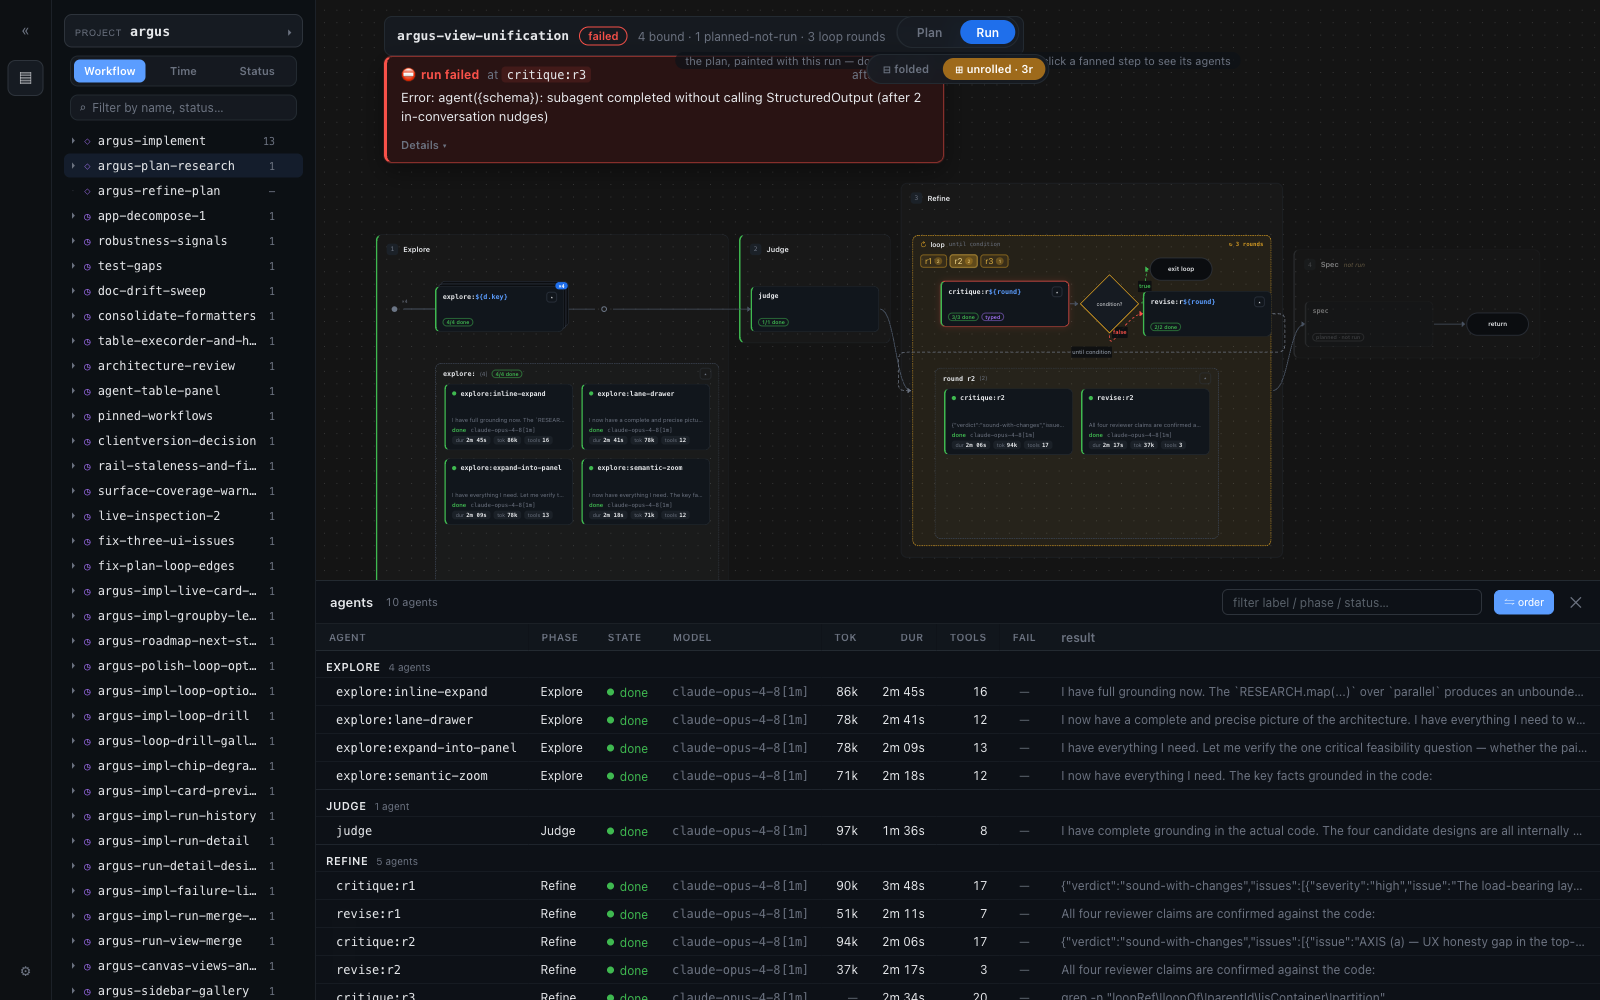
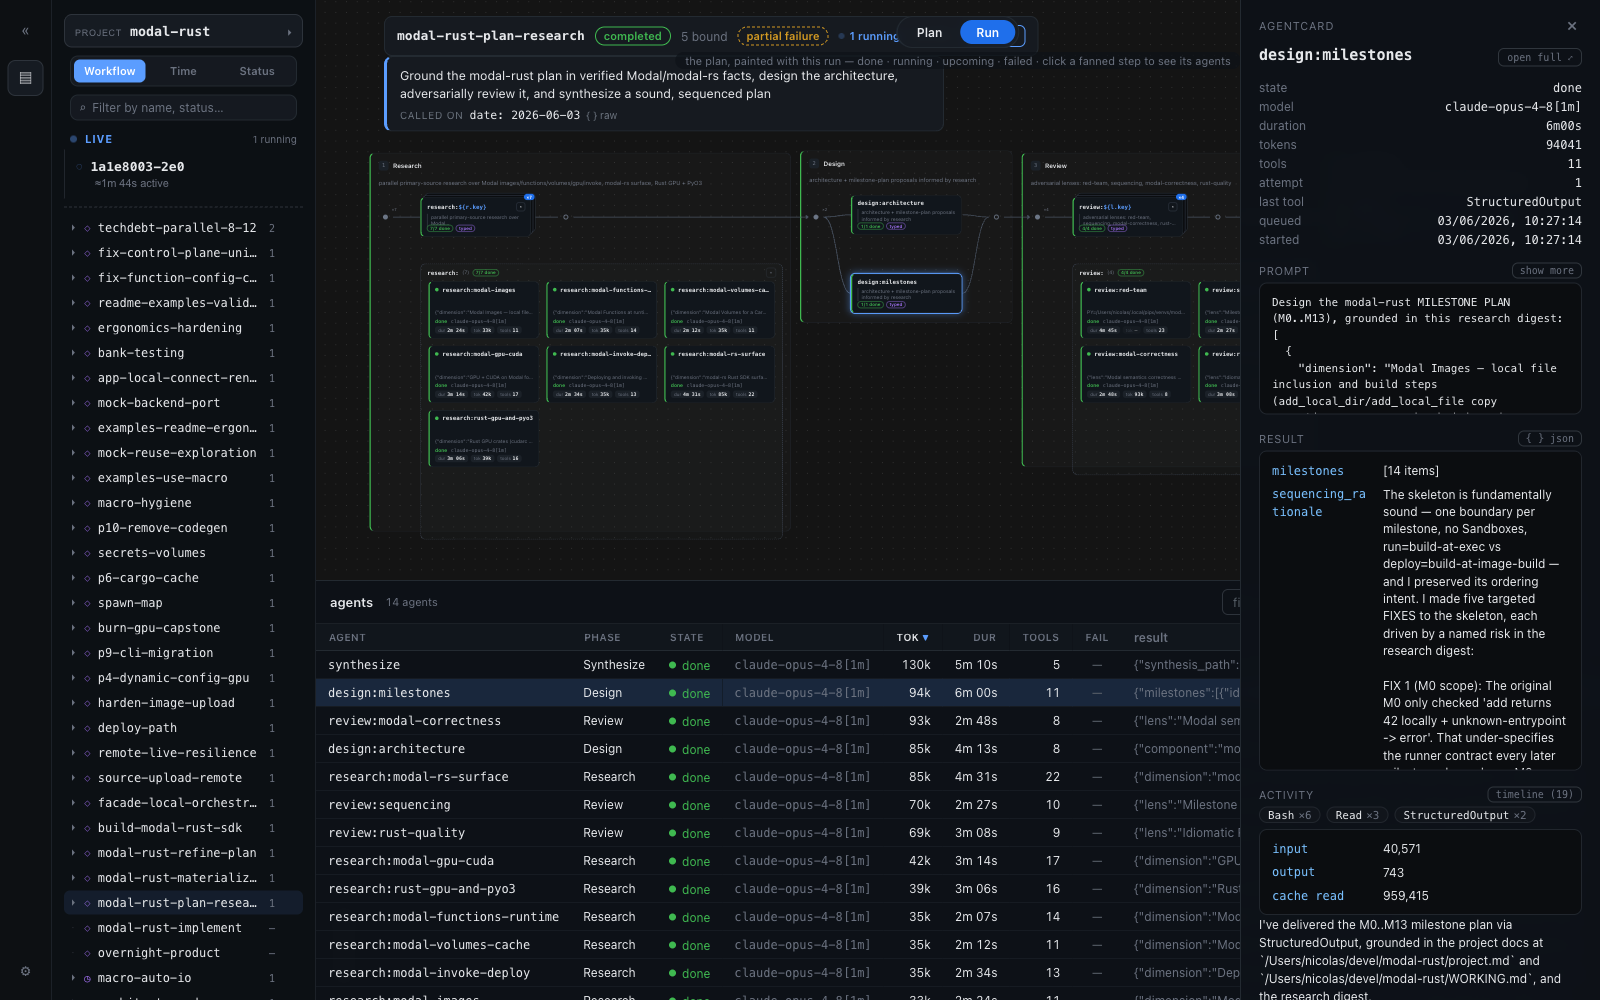
docs: re-capture README screenshots that framed poorly (verified each)
Round 2 on the screenshot refresh — the prior batch was committed without
scrutinizing framing (per review: plan-overview was a tiny graph adrift in
black, loop-drill was cropped too tight, agent-table was busy + on the wrong
run). Re-captured at 1600x1000 and visually verified each before adding:

- plan-overview.png: a legible left->right phase blueprint (Research -> Design
  -> Review -> Synthesize) with dashed plan nodes + fan-out markers (was an
  unframed dot).
- loop-drill.png: a loop workflow's plan in context — critique -> decision ->
  revise with the back-edge + exit-loop branch, no failure-banner noise (was a
  single cropped round).
- agent-table.png: the panoptic 'everything at once' view — run graph + agent
  table + a selected agent's detail panel, on modal-rust-plan-research (was a
  cramped shot of an unrelated failed run).

run-view.png (hero) kept as-is. README alt text updated to match each shot.

diff --git a/README.md b/README.md
@@ -16,8 +16,8 @@ fullscreen graph of phases, agents, tokens, tools, and results.
 ![argus — the Run view: a workflow's plan painted with a run; fan-outs expanded into agent instance cards with result previews, plus the run's objective band](docs/screenshots/run-view.png)
 
 <p align="center">
-  <img src="docs/screenshots/plan-overview.png" width="49%" alt="Plan view — the dashed blueprint plus a run-history band of the workflow's runs (status · when · agents·duration)" />
-  <img src="docs/screenshots/loop-drill.png" width="49%" alt="a loop's round axis (r1·r2…) drilled — clicking a round opens that round's subagents in the detail panel" />
+  <img src="docs/screenshots/plan-overview.png" width="49%" alt="Plan view — a workflow's intended DAG parsed from its code: left→right phase lanes (Research → Design → Review → Synthesize) with dashed plan nodes and fan-out markers" />
+  <img src="docs/screenshots/loop-drill.png" width="49%" alt="a loop workflow's plan — the critique → decision → revise cycle with its dashed back-edge and an exit-loop branch (runs until the condition holds, max 3 rounds)" />
 </p>
 
 ## Status
@@ -90,14 +90,14 @@ the verbatim prompt, the ordered tool timeline, and the readable result, top to 
 
 ![transcript reader — one agent read top-to-bottom: prompt, tool timeline, result](docs/screenshots/transcript-reader.png)
 
-**Scan a whole run as a table — in execution order.** The bottom panel lists every agent
-with cost / time / tools / status columns, sortable and filterable. Flip it to the
-**execution-order DAG** view and the agents nest under their phase headers (`Explore·4`,
-`Judge·1`, `Refine·5`), parallel siblings indented together — a vertical read of the run's
-shape. Hovering a row cross-highlights the matching node on the graph above; clicking selects
-it in the detail panel even when its fan is collapsed.
+**The whole surface at once — scan the table, read any agent, never lose the graph.** The
+bottom panel lists every agent with cost / time / tools / status columns (sortable, filterable,
+plus an **execution-order DAG** view that nests agents under their phase headers with parallel
+siblings indented). Clicking a row opens that agent's full detail on the right — state, tokens,
+prompt, result, activity timeline — even when its fan is collapsed on the canvas; hovering
+cross-highlights its node on the graph above. Graph, table, and detail panel, one view.
 
-![agent table — the execution-order view: agents nested under phase headers (Explore·4, Judge·1, Refine·5), with a row hover cross-highlighting its node on the graph above](docs/screenshots/agent-table.png)
+![argus showing everything at once — the run graph with expanded agent fans, the sortable agent table along the bottom, and a selected agent's detail panel (state · tokens · prompt · result · activity) on the right](docs/screenshots/agent-table.png)
 
 ## How it works
 
